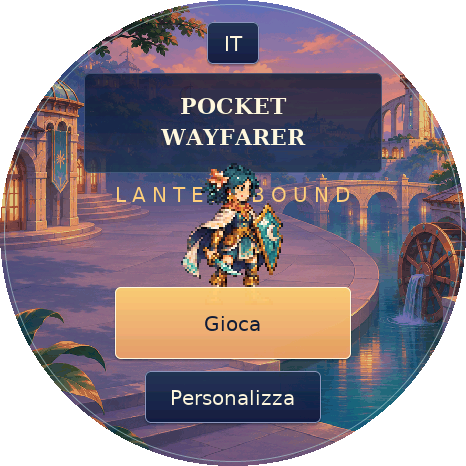
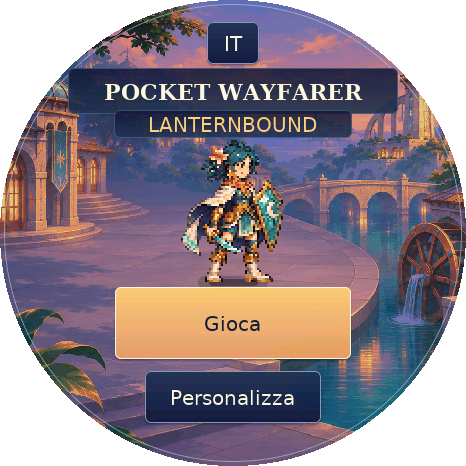
Keep title artwork clear of labels and controls

Changed region(s): [[0.1202, 0.1202, 0.8712, 0.6309]]

diff --git a/firmware/rpg/host/preview_lantern.c b/firmware/rpg/host/preview_lantern.c
@@ -102,9 +102,10 @@ static void check_buttons(lv_obj_t *o) {
     for (uint32_t i = 0; i < lv_obj_get_child_count(o); i++) check_buttons(lv_obj_get_child(o, (int)i));
 }
 static void check_hero_clearance(const char *name) {
+    bool title = R.screen == R_TITLE;
     bool town = R.screen == R_TOWN;
     bool battle = R.screen == R_LANTERN && R.g.lantern.state >= LN_CHOOSE && R.g.lantern.state <= LN_IMPACT;
-    if (!town && !battle) return;
+    if (!title && !town && !battle) return;
     lv_obj_t *screen = lv_screen_active();
     bool found = false;
     for (unsigned i = 0; i < lv_obj_get_child_count(screen); i++) {
@@ -112,7 +113,7 @@ static void check_hero_clearance(const char *name) {
         if (!lv_obj_check_type(o, &lv_image_class) || lv_obj_get_width(o) != 176) continue;
         lv_area_t a; lv_obj_get_coords(o, &a);
         int cx = (a.x1+a.x2+1)/2;
-        if (cx < (town ? 145 : 105) || cx > (town ? 175 : 150)) continue;
+        if (cx < (title ? 230 : town ? 145 : 105) || cx > (title ? 236 : town ? 175 : 150)) continue;
         const lv_image_dsc_t *image = lv_image_get_src(o);
         assert(image->header.cf == LV_COLOR_FORMAT_RGB565A8);
         const uint8_t *alpha = image->data + image->header.stride * image->header.h;
@@ -120,12 +121,12 @@ static void check_hero_clearance(const char *name) {
             if (!alpha[y*image->header.w+x]) continue;
             /* Test actual expanded sprite pixels against the rendered HUD,
              * rather than its padded transparent canvas. Feet used to fail. */
-            assert(a.y1+(int)y > 106 && a.y1+(int)y < (town ? 279 : 285));
+            assert(a.y1+(int)y > (title ? 137 : 106) && a.y1+(int)y < (title ? 287 : town ? 279 : 285));
         }
         found = true;
     }
     /* Town subpages share R_TOWN but intentionally have no hero. */
-    if (!strcmp(name, "borgo") || !strcmp(name, "village-english") || !strcmp(name, "combattimento")) assert(found);
+    if (title || !strcmp(name, "borgo") || !strcmp(name, "village-english") || !strcmp(name, "combattimento")) assert(found);
 }
 static void shot(const char *name) {
     lv_obj_update_layout(lv_screen_active());

diff --git a/firmware/rpg/ui/r_lantern.c b/firmware/rpg/ui/r_lantern.c
@@ -181,10 +181,12 @@ enum { C_DEPART = 1, C_HERO, C_BAG, C_MORE, C_HOME, C_CLASSIC, C_MAP, C_EQUIP, C
 
 void scr_lantern_title(void) {
     scene(PAGE_TITLE, 0, 50);
-    panel(L.root, CX, 123, 298, 100, 205);
-    label(L.root, "POCKET\nWAYFARER", CX, 120, 282, IVORY, true);
-    label(L.root, "L A N T E R N B O U N D", CX, 194, 284, AMBER, false);
-    L.hero = kit_img(L.root, hero_sprite(0), 2, CX, 225);
+    panel(L.root, CX, 91, 330, 46, 225);
+    label(L.root, "POCKET WAYFARER", CX, 91, 314, IVORY, true);
+    panel(L.root, CX, 124, 238, 28, 225);
+    label(L.root, "LANTERNBOUND", CX, 124, 270, AMBER, false);
+    ground_shadow(CX, 282, 70);
+    L.hero = kit_img(L.root, hero_sprite(0), 2, CX, 202);
     button(L.root, TR("Gioca", "Play"), CX, 323, 236, 72, C_QUICK, true);
     button(L.root, TR("Personalizza", "Customize"), CX, 397, 176, 52, C_CUSTOM, false);
     button(L.root, wf_lang ? "EN" : "IT", CX, 43, 52, 42, C_LANGUAGE, false);

diff --git a/docs/ART-CLARITY.md b/docs/ART-CLARITY.md
@@ -16,7 +16,7 @@ Sono principi di composizione applicabili a questo hardware, non una promessa di
 
 ## Scelte visive realizzate
 
-Il borgo usa un canale al crepuscolo, architetture illuminate ai bordi e una piazza libera dietro l'eroe. Nell'arena, la foschia blu-viola e le campiture ampie arretrano rispetto ad avorio, ambra e verde acqua delle figure. La saturazione è distribuita per importanza, anziché aumentata ovunque. Il fondale resta colorato, ma non deve contendere il primo piano ai combattenti.
+La schermata iniziale separa titolo, sottotitolo, figura intera e pulsanti: nessuna lettera attraversa la sagoma. Anche il sottotitolo ha un fondino leggibile. Il borgo usa un canale al crepuscolo, architetture illuminate ai bordi e una piazza libera dietro l'eroe. Nell'arena, la foschia blu-viola e le campiture ampie arretrano rispetto ad avorio, ambra e verde acqua delle figure. La saturazione è distribuita per importanza, anziché aumentata ovunque. Il fondale resta colorato, ma non deve contendere il primo piano ai combattenti.
 
 I tre assetti hanno nuove forme e colori: Sentinella con mantello avorio e scudo verde acqua; Piromante con capelli chiari, veste prugna e lanterna; Predone con giacca indaco, fascia e due lame. Anche le sette specie nemiche hanno nuove sorgenti a quattro pose. Le palette sono condivise fra le pose di ciascuna riga, per evitare oscillazioni cromatiche dovute alla conversione.
 
